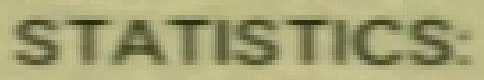
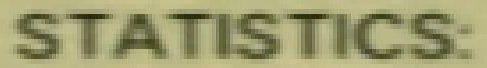
nodejs fork

diff --git a/obs/matcher.ts b/obs/matcher.ts
@@ -1,4 +1,5 @@
 import cp from 'node:child_process';
+import { fileURLToPath } from 'url';
 
 const Screens = ['StartLevel', 'EndLevelComplete', 'EndLevel', 'EndLevelStats'] as const;
 export type Screen = (typeof Screens)[number];
@@ -6,19 +7,17 @@ export type Screen = (typeof Screens)[number];
 // NOTE: opencv4nodejs breaks when used in workers, so we create a process pool instead.
 
 class Worker {
-  process: cp.ChildProcessWithoutNullStreams;
+  process: cp.ChildProcess;
 
   constructor() {
-    this.process = cp.spawn('npx', ['tsx', 'obs/matcher-process.ts']);
-    this.process.stdout.pipe(process.stdout);
+    this.process = cp.fork(fileURLToPath(new URL('./matcher-process.js', import.meta.url)));
   }
 
   async init(filename: string, screen: Screen, cropRegion: [number, number, number, number]) {
-    this.process.stdin.write(JSON.stringify({ type: 'init', filename, screen, cropRegion }) + '\n');
+    this.process.send({ type: 'init', filename, screen, cropRegion });
 
     await new Promise((resolve) => {
-      this.process.stderr.once('data', (data) => {
-        const message = JSON.parse(data.toString());
+      this.process.once('message', (message: any) => {
         if (message.type === 'init-complete') {
           resolve(null);
         }
@@ -27,11 +26,10 @@ class Worker {
   }
 
   async match(imageDataUrl: string): Promise<Screen | null> {
-    this.process.stdin.write(JSON.stringify({ type: 'match', imageDataUrl }) + '\n');
+    this.process.send({ type: 'match', imageDataUrl });
 
     return new Promise((resolve) => {
-      this.process.stderr.once('data', (data) => {
-        const message = JSON.parse(data.toString());
+      this.process.once('message', (message: any) => {
         if (message.type === 'match') {
           resolve(message.screen);
         }